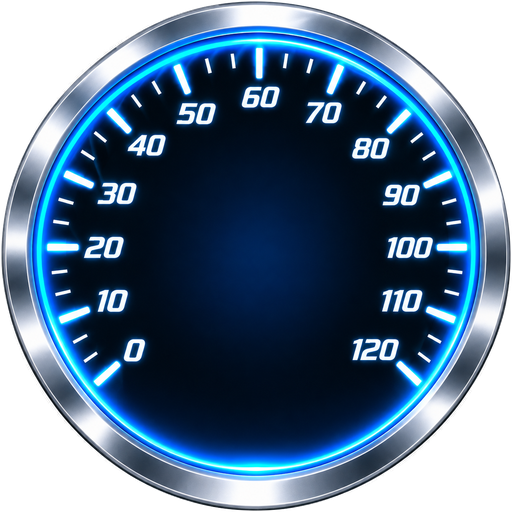
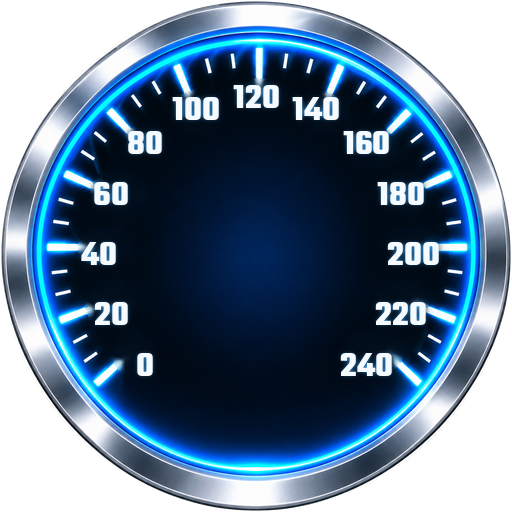
Speedometer: dial now 0-240 km/h, needle mapped to match
Claude-Session: https://claude.ai/code/session_0159fHkPAqMaQYApKhSzbmdF

diff --git a/Assets/Scripts/ThirdParty/RCC/RCC_DashboardInputs.cs b/Assets/Scripts/ThirdParty/RCC/RCC_DashboardInputs.cs
@@ -172,7 +172,7 @@ public class RCC_DashboardInputs : MonoBehaviour
 			{
 				KMHNeedleRotation = RCC_SceneManager.Instance.activePlayerVehicle.speed * 0.62f;
 			}
-			KMHNeedle.transform.localEulerAngles = new Vector3(0f, 0f, 135f - Mathf.Clamp(KMHNeedleRotation, 0f, 120f) * 2.25f);
+			KMHNeedle.transform.localEulerAngles = new Vector3(0f, 0f, 135f - Mathf.Clamp(KMHNeedleRotation, 0f, 240f) * 1.125f);
 		}
 		if ((bool)turboNeedle)
 		{
